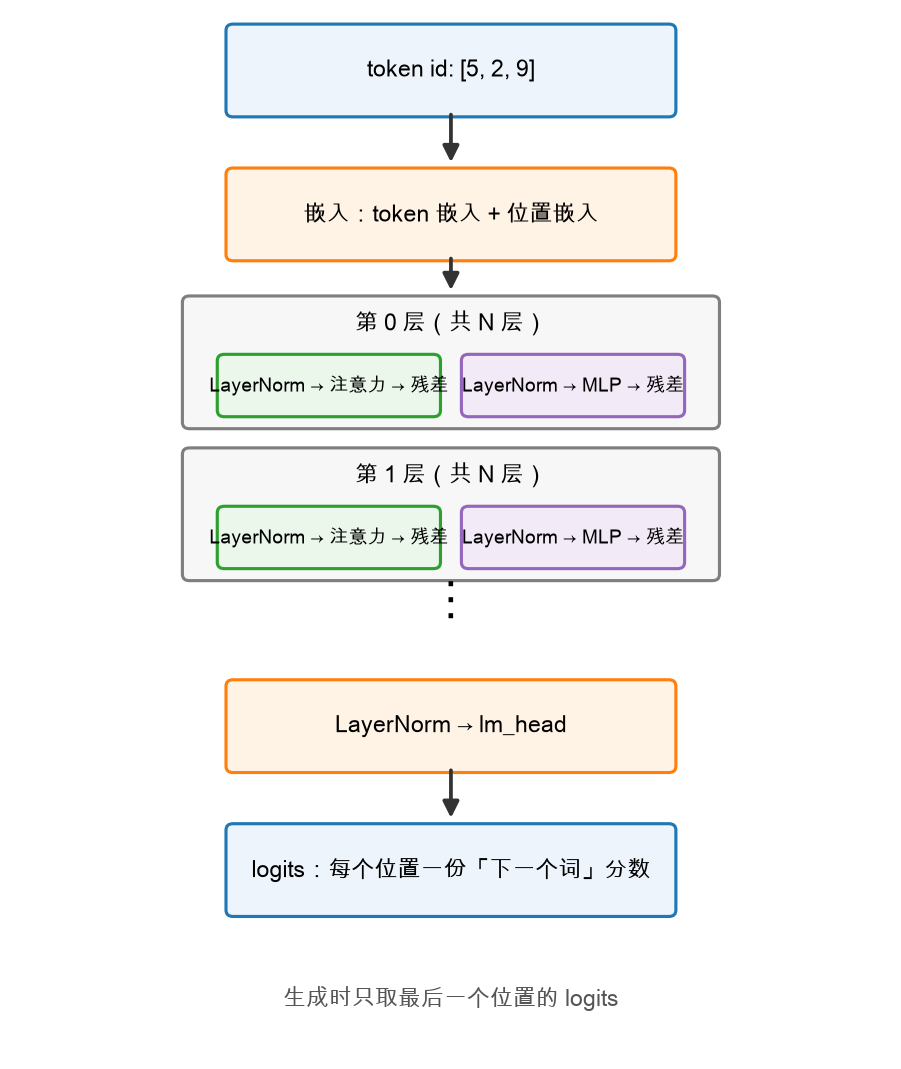
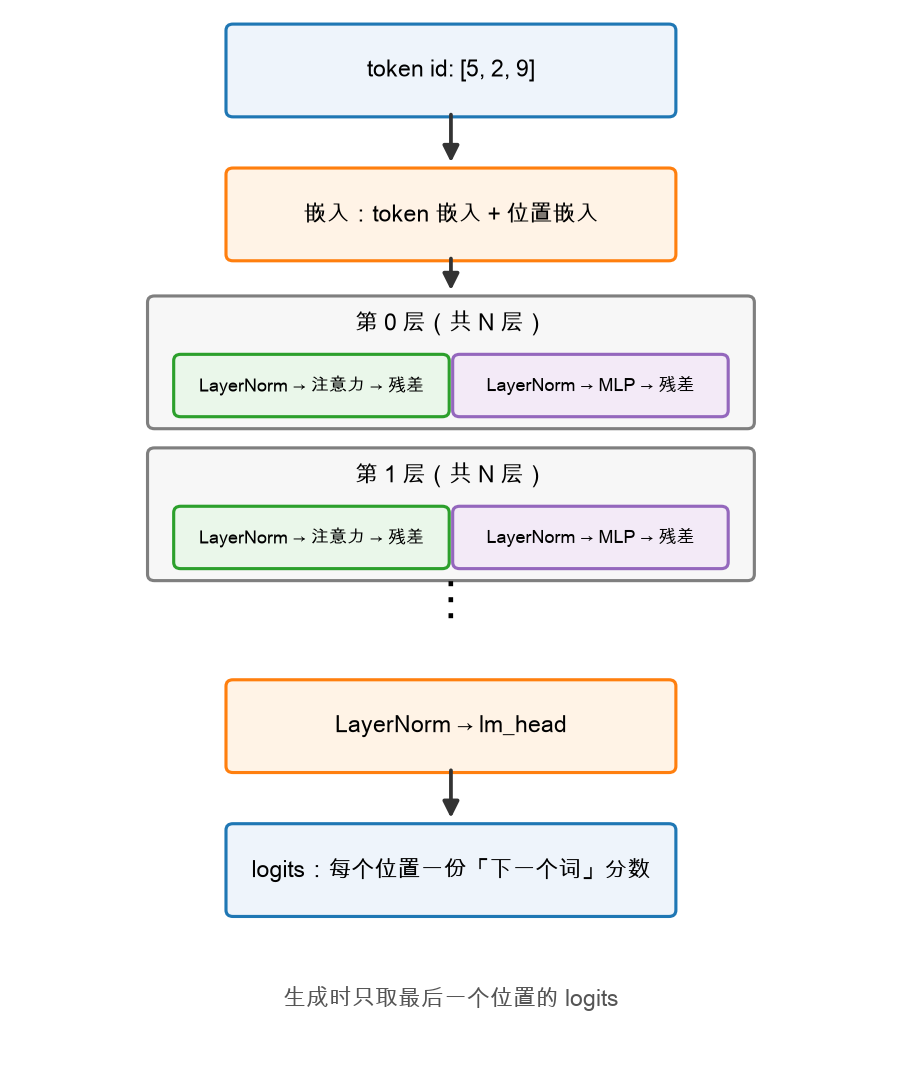
修复 4 张配图的遮挡/裁切问题：w1 重排自回归流程图、w2 加宽层内方框、w3 内存账 log 轴顺序+留白、w8 底部题注让位

Changed region(s): [[0.1554, 0.2778, 0.8391, 0.5557]]

diff --git a/figures/gen_w1_autoregressive.py b/figures/gen_w1_autoregressive.py
@@ -8,29 +8,35 @@ from figures._common import C_BLUE, C_GREEN, C_ORANGE, arrow, box, canvas, save
 
 
 def main():
-    fig, ax = canvas(w=10, h=4.2, xlim=(0, 14), ylim=(0, 6))
+    fig, ax = canvas(w=10, h=5.0, xlim=(0, 14), ylim=(0, 7))
 
     # 第一行：第 1 步
-    box(ax, (0.3, 3.9), 3.0, 1.0, "巴黎是法国的首都", fc="#eef4fb", ec=C_BLUE)
-    box(ax, (4.3, 3.9), 2.2, 1.0, "模型\n（一次前向）", fc="#fff3e6", ec=C_ORANGE)
-    box(ax, (7.5, 3.9), 1.8, 1.0, "。", fc="#eaf7ea", ec=C_GREEN)
-    arrow(ax, (3.3, 4.4), (4.3, 4.4))
-    arrow(ax, (6.5, 4.4), (7.5, 4.4), label="预测下一个词")
+    box(ax, (0.3, 4.9), 3.0, 1.0, "巴黎是法国的首都", fc="#eef4fb", ec=C_BLUE)
+    box(ax, (4.3, 4.9), 2.2, 1.0, "模型\n（一次前向）", fc="#fff3e6", ec=C_ORANGE)
+    box(ax, (7.5, 4.9), 1.8, 1.0, "。", fc="#eaf7ea", ec=C_GREEN)
+    arrow(ax, (3.3, 5.4), (4.3, 5.4))
+    arrow(ax, (6.5, 5.4), (7.5, 5.4))
+    ax.text(7.0, 5.85, "预测下一个词", fontsize=10, color="#333333", ha="center",
+            bbox=dict(boxstyle="round,pad=0.2", fc="white", ec="none", alpha=0.9))
 
     # 第二行：第 2 步——把上一个词接回去再算
-    box(ax, (0.3, 1.6), 3.0, 1.0, "巴黎是法国的首都。", fc="#eef4fb", ec=C_BLUE)
-    box(ax, (4.3, 1.6), 2.2, 1.0, "模型\n（又一次前向）", fc="#fff3e6", ec=C_ORANGE)
-    box(ax, (7.5, 1.6), 1.8, 1.0, "它", fc="#eaf7ea", ec=C_GREEN)
-    arrow(ax, (3.3, 2.1), (4.3, 2.1))
-    arrow(ax, (6.5, 2.1), (7.5, 2.1))
-    # 新词接回输入的箭头
-    arrow(ax, (8.4, 3.9), (1.8, 2.7), connectionstyle="arc3,rad=0.35",
-          label="把新词接回输入", label_offset=(1.2, 0.55))
+    box(ax, (0.3, 2.2), 3.0, 1.0, "巴黎是法国的首都。", fc="#eef4fb", ec=C_BLUE)
+    box(ax, (4.3, 2.2), 2.2, 1.0, "模型\n（又一次前向）", fc="#fff3e6", ec=C_ORANGE)
+    box(ax, (7.5, 2.2), 1.8, 1.0, "它", fc="#eaf7ea", ec=C_GREEN)
+    arrow(ax, (3.3, 2.7), (4.3, 2.7))
+    arrow(ax, (6.5, 2.7), (7.5, 2.7))
 
-    ax.text(10.1, 4.4, "每多一个词，\n就要完整重算一遍！", fontsize=13,
+    # 新词接回输入：从「。」盒底垂直下来，再从两行之间的空隙绕回第二行输入盒顶
+    arrow(ax, (8.4, 4.9), (8.4, 4.0))                       # 先垂直落下
+    arrow(ax, (8.4, 4.0), (1.8, 3.35),                      # 再走空档回到输入
+          connectionstyle="arc3,rad=0.12")
+    ax.text(5.1, 3.85, "把新词接回输入", fontsize=10, color="#333333", ha="center",
+            bbox=dict(boxstyle="round,pad=0.2", fc="white", ec="#999999", alpha=0.95))
+
+    ax.text(10.3, 5.4, "每多一个词，\n就要完整重算一遍！", fontsize=13,
             color="#b03a2e", ha="left", va="center",
             bbox=dict(boxstyle="round,pad=0.4", fc="#fdf2f0", ec="#b03a2e"))
-    ax.text(7.0, 0.35, "这就是「自回归」：输出会回到输入。也是 Week 3 要解决的大浪费。",
+    ax.text(7.0, 0.6, "这就是「自回归」：输出会回到输入。也是 Week 3 要解决的大浪费。",
             fontsize=11, ha="center", color="#555555")
 
     save(fig, "w1_autoregressive.png")

diff --git a/figures/gen_w2_transformer.py b/figures/gen_w2_transformer.py
@@ -19,13 +19,13 @@ def transformer_map():
 
     # 堆叠的 DecoderBlock
     for i, y in enumerate([7.9, 6.0]):
-        box(ax, (2.0, y), 6, 1.5, "", fc="#f7f7f7", ec=C_GRAY)
+        box(ax, (1.6, y), 6.8, 1.5, "", fc="#f7f7f7", ec=C_GRAY)
         ax.text(5, y + 1.15, f"第 {i} 层（共 N 层）", ha="center", fontsize=11,
                 weight="bold")
-        box(ax, (2.4, y + 0.15), 2.4, 0.62, "LayerNorm → 注意力 → 残差",
-            fc="#eaf7ea", ec="#2ca02c", fontsize=9)
-        box(ax, (5.2, y + 0.15), 2.4, 0.62, "LayerNorm → MLP → 残差",
-            fc="#f3eaf7", ec="#9467bd", fontsize=9)
+        box(ax, (1.9, y + 0.15), 3.0, 0.62, "LayerNorm → 注意力 → 残差",
+            fc="#eaf7ea", ec="#2ca02c", fontsize=8.5)
+        box(ax, (5.1, y + 0.15), 3.0, 0.62, "LayerNorm → MLP → 残差",
+            fc="#f3eaf7", ec="#9467bd", fontsize=8.5)
     ax.text(5, 5.45, "⋮", fontsize=22, ha="center")
 
     box(ax, (2.5, 3.6), 5, 1.0, "LayerNorm → lm_head", fc="#fff3e6", ec=C_ORANGE)

diff --git a/figures/gen_w8_module_map.py b/figures/gen_w8_module_map.py
@@ -18,7 +18,7 @@ def mapping():
         ("engine/llm.py", "vllm/entrypoints/llm.py", "用户门面"),
         ("model/qwen3.py", "vllm/model_executor/models/qwen3.py", "模型实现"),
     ]
-    fig, ax = canvas(w=11.5, h=6.2, xlim=(0, 15), ylim=(0, 10))
+    fig, ax = canvas(w=11.5, h=6.6, xlim=(0, 15), ylim=(-0.9, 10))
     ax.text(3.0, 9.4, "我们的 minivllm", fontsize=14, ha="center", weight="bold",
             color=C_BLUE)
     ax.text(12.0, 9.4, "真实的 vLLM v1", fontsize=14, ha="center", weight="bold",
@@ -32,7 +32,7 @@ def mapping():
         ax.text(7.5, y + 0.22, label, fontsize=10, ha="center", color="#555555")
         y -= 1.06
 
-    ax.text(7.5, 0.15, "左边每一行你都亲手写过——右边就是它在大人世界里的样子。",
+    ax.text(7.5, -0.45, "左边每一行你都亲手写过——右边就是它在大人世界里的样子。",
             fontsize=12, ha="center", color="#555555")
     save(fig, "w8_module_map.png")
 

diff --git a/figures/gen_w3_kv_cache.py b/figures/gen_w3_kv_cache.py
@@ -99,9 +99,11 @@ def memory_bill():
         ax.annotate(f"{m / 1024:.1f} GB" if m >= 1024 else f"{m:.0f} MB",
                     (s, m), textcoords="offset points", xytext=(0, 8),
                     ha="center", fontsize=9, color=C_RED)
+    ax.set_xlim(0, 4600)  # 右侧留白，免得最后一个标注被边框切掉
+    ax.set_yscale("log")
+    ax.set_ylim(10, 4e4)  # 先定 log 轴范围：底部 10 MB，顶部留白给「14.0 GB」标注
     ax.set_xlabel("序列长度（token 数）")
     ax.set_ylabel("KV cache 占用")
-    ax.set_yscale("log")
     ax.set_yticks([100, 1000, 10000], ["100 MB", "1 GB", "10 GB"])
     ax.set_title("KV cache 内存账（Qwen3-0.6B，bf16）：每 token 约 112 KB")
     ax.legend()
